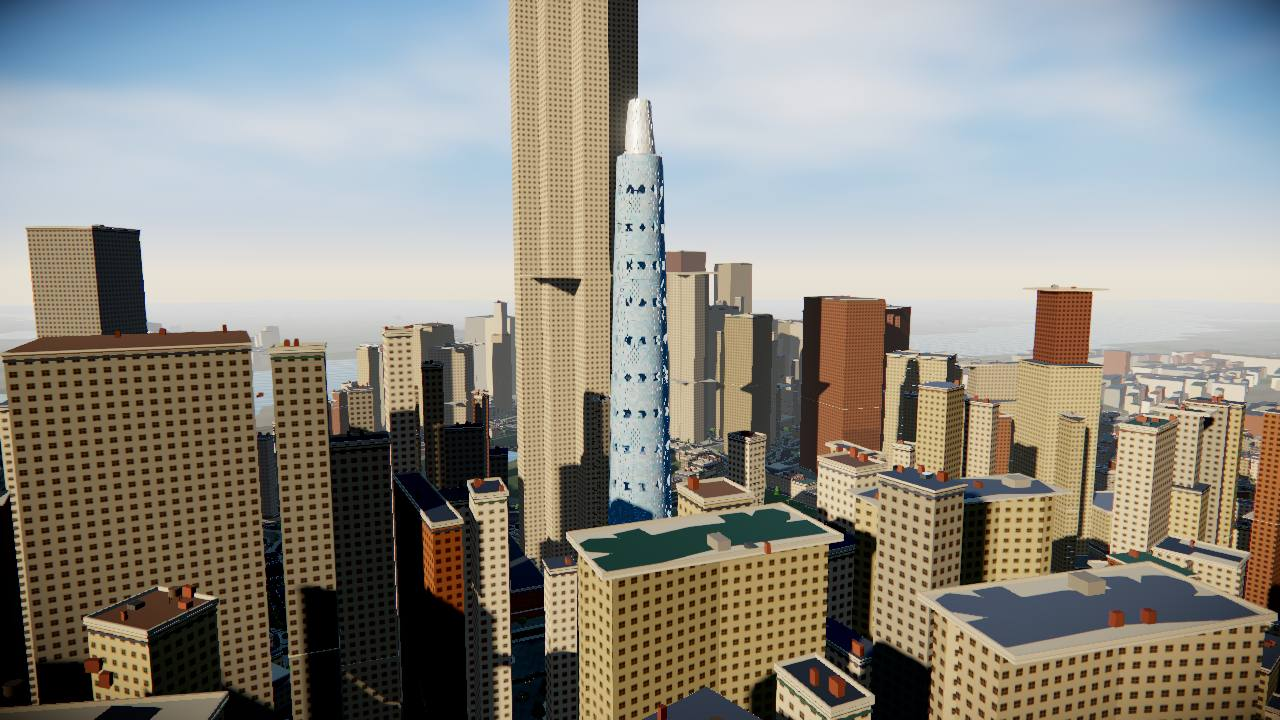
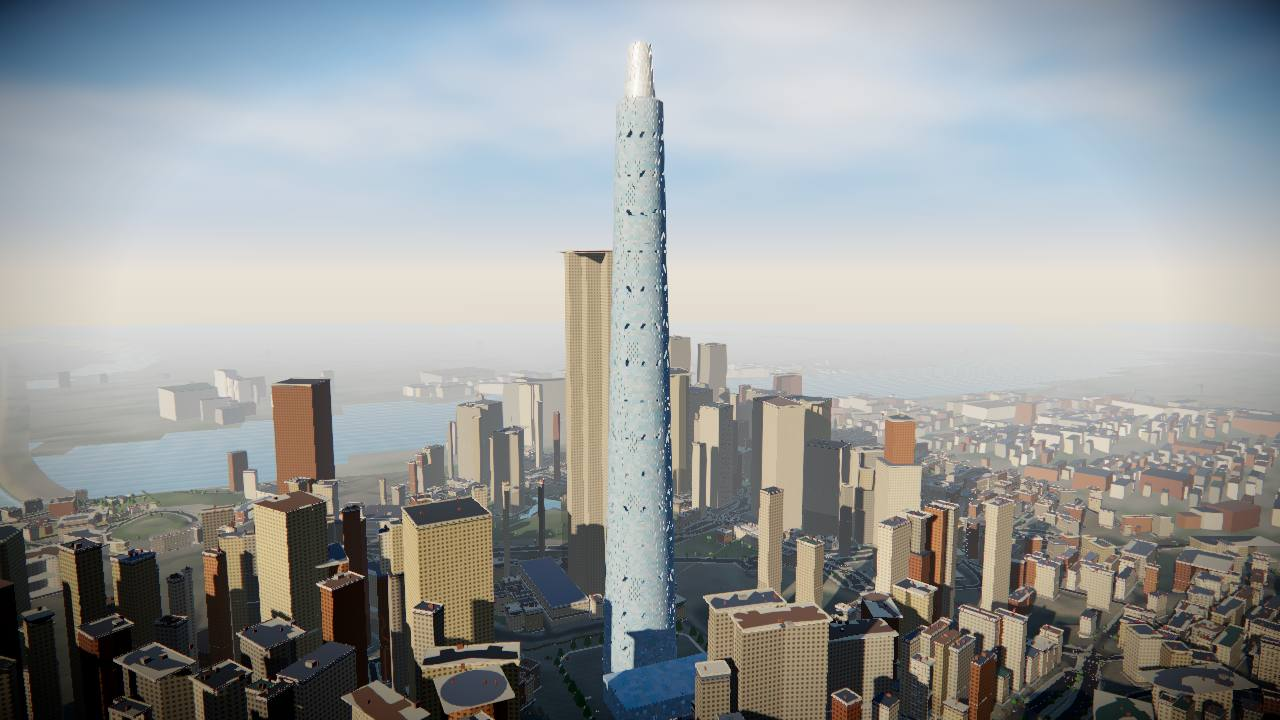
Supertalls whole in the opening frame, and new recon photographs of the five
The catalogue camera's aim point was capped at 240 m, so the top of a 612 m
Shanghai Tower was out of the top of the opening shot. The cap is now half
the tower's height where that is more (only levels over about 460 m move:
Shanghai, the CN Tower, Taipei 101). The recon photographs for the five
full-size landmarks, which the title screen and the contract cards use, are
re-shot from the new cameras.

Claude-Session: https://claude.ai/code/session_01Vm4UdrLmhsEiZM8Dk4Wi6F

diff --git a/src/game/atlas.js b/src/game/atlas.js
@@ -500,7 +500,9 @@ function levelRecord(P, i) {
       // High enough to see over the town: a supertall in a business district
       // has towers of its own round it, and a camera at a third of its height
       // looked at the side of the nearest one.
-      height: Math.round(clamp(Math.max(H * (H > 150 ? 0.6 : 0.35), clamp(Math.max(w, d) * 1.5 + H * 0.9, 260, 820) * 0.2), 30, 240)),
+      // Capped, but not below half a supertall: at 240 m the top of the
+      // Shanghai Tower was out of the top of the opening frame.
+      height: Math.round(clamp(Math.max(H * (H > 150 ? 0.6 : 0.35), clamp(Math.max(w, d) * 1.5 + H * 0.9, 260, 820) * 0.2), 30, Math.max(240, H * 0.52))),
     },
     structures: (quality) => [
       { key: P.id, blocks: buildKit(spec, quality), primary: true, required: true, label: target },
